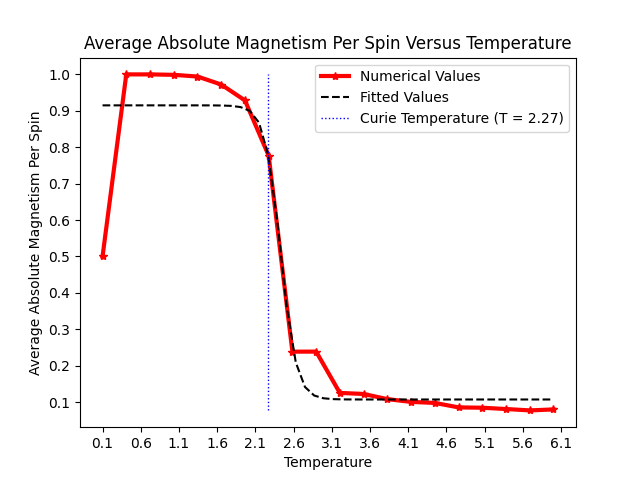
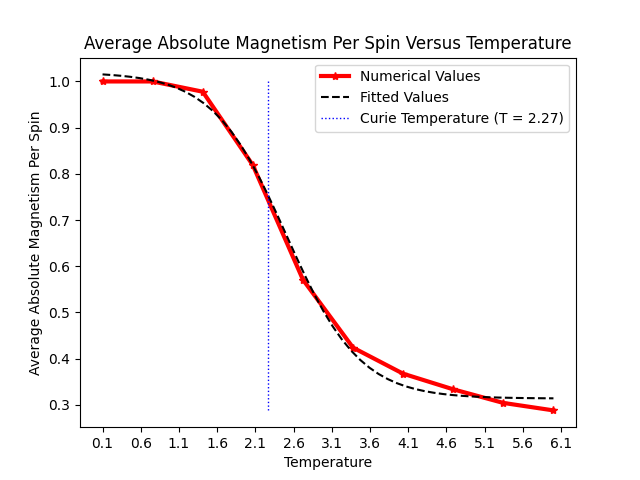
fixing misc

diff --git a/analyze_data.py b/analyze_data.py
@@ -36,7 +36,6 @@ plot_list = [
 def analyze_data():
     with open('ising_data_dump.pkl', 'rb') as f:
         ising_data_dump = np.array(pickle.load(f))
-    print(ising_data_dump.shape)
     ising_data_transpose = np.transpose(ising_data_dump, (1, 0))
 
     analyzer(plot_list[0], ising_data_transpose[0], [-1, 2.5, 1, 1], sigmoid)
@@ -63,7 +62,6 @@ def analyzer(spec, data, initial_guess, model_function):
     objective = generate_function_to_minimize(data, T_range, model_function)
     result = optimize.minimize(objective, np.array(initial_guess)).x
     test_function = model_function(*result)
-    print(result)
     new_t_range = np.linspace(T_min, T_max, 50)
     plt.plot(new_t_range,
              [test_function(data_point) for data_point in new_t_range],
@@ -72,7 +70,9 @@ def analyzer(spec, data, initial_guess, model_function):
                color='blue', linewidth=1, linestyle='dotted')
     plt.legend(['Numerical Values', 'Fitted Values', 'Curie Temperature (T = '
                                                      '2.27)'])
+
     plt.savefig(f'./outputs/{"".join(spec["title"].split(" "))}.png')
+    print(spec['ylabel'], 'is analyzed and plot is generated and saved')
 
 
 def analyze_main():

diff --git a/driver.py b/driver.py
@@ -2,7 +2,7 @@ LATTICE_SIZE = 4
 J = 1
 T_min = 0.1
 T_max = 6
-N_temp_step = 20
+N_temp_step = 10
 THROW_AWAY_COUNT = 7000
 NUM_SAMPLES = 20000
 

diff --git a/README.md b/README.md
@@ -54,7 +54,7 @@ functions:
     2. The spin interaction parameter - `J`. Default value of `J = 1`.
     3. The minimum temperature - `T_min`. Default value of `T_min = 0.1`.
     4. The maximum temperature - `T_max`. Default value of `T_max = 6`.
-    5. The number of temperature samples between `T_min` and `T_max` - `N_temp_step`. Default value of `N_temp_step = 5`.
+    5. The number of temperature samples between `T_min` and `T_max` - `N_temp_step`. Default value of `N_temp_step = 10`.
     6. The number of initial samples to throwaway - `THROW_AWAY_COUNT`. Default value of `THROW_AWAY_COUNT` = 7000.
     7. The number of samples to consider - `NUM_SAMPLES`. Default value of `NUM_SAMPLES = 20000`
   - Generates the set of temperature as `np.linspace(T_min, T_max, N_temp_step)`, and calls `write_ising()` from `ising_model_main.py` which runs Ising Model simulation for each value of
